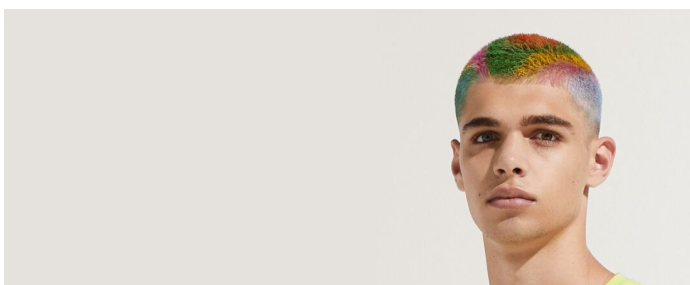
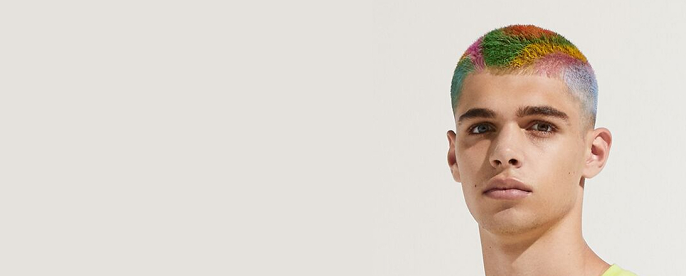
category update

diff --git a/Client/src/components/home/Category/Item.jsx b/Client/src/components/home/Category/Item.jsx
@@ -7,11 +7,11 @@ const Item = ({ category }) => {
     <div
       className={`${category.id === 1 && "col-span-2 row-span-2"} ${
         category.id === 2 && "col-span-2"
-      } cursor-pointer`}
+      } cursor-pointer bg-cover! bg-center! bg-no-repeat!`}
       style={{
         background: isBgColor
           ? "#F5E6E0"
-          : `url(${category?.image?.src}) center center/cover`,
+          : `url(${category?.image?.src})`,
       }}
     >
       <div className="flex flex-col h-full justify-end pb-10 ps-10 font-jost">

diff --git a/Client/src/components/home/Category/Category.jsx b/Client/src/components/home/Category/Category.jsx
@@ -5,7 +5,7 @@ import Item from "./Item";
 
 const Category = () => {
   return (
-    <section>
+    <section id="category" className="mt-25">
       <Container>
         <div className="grid grid-cols-4 grid-rows-2 gap-4 h-150 ">
           {categoryData.map((category) => (
